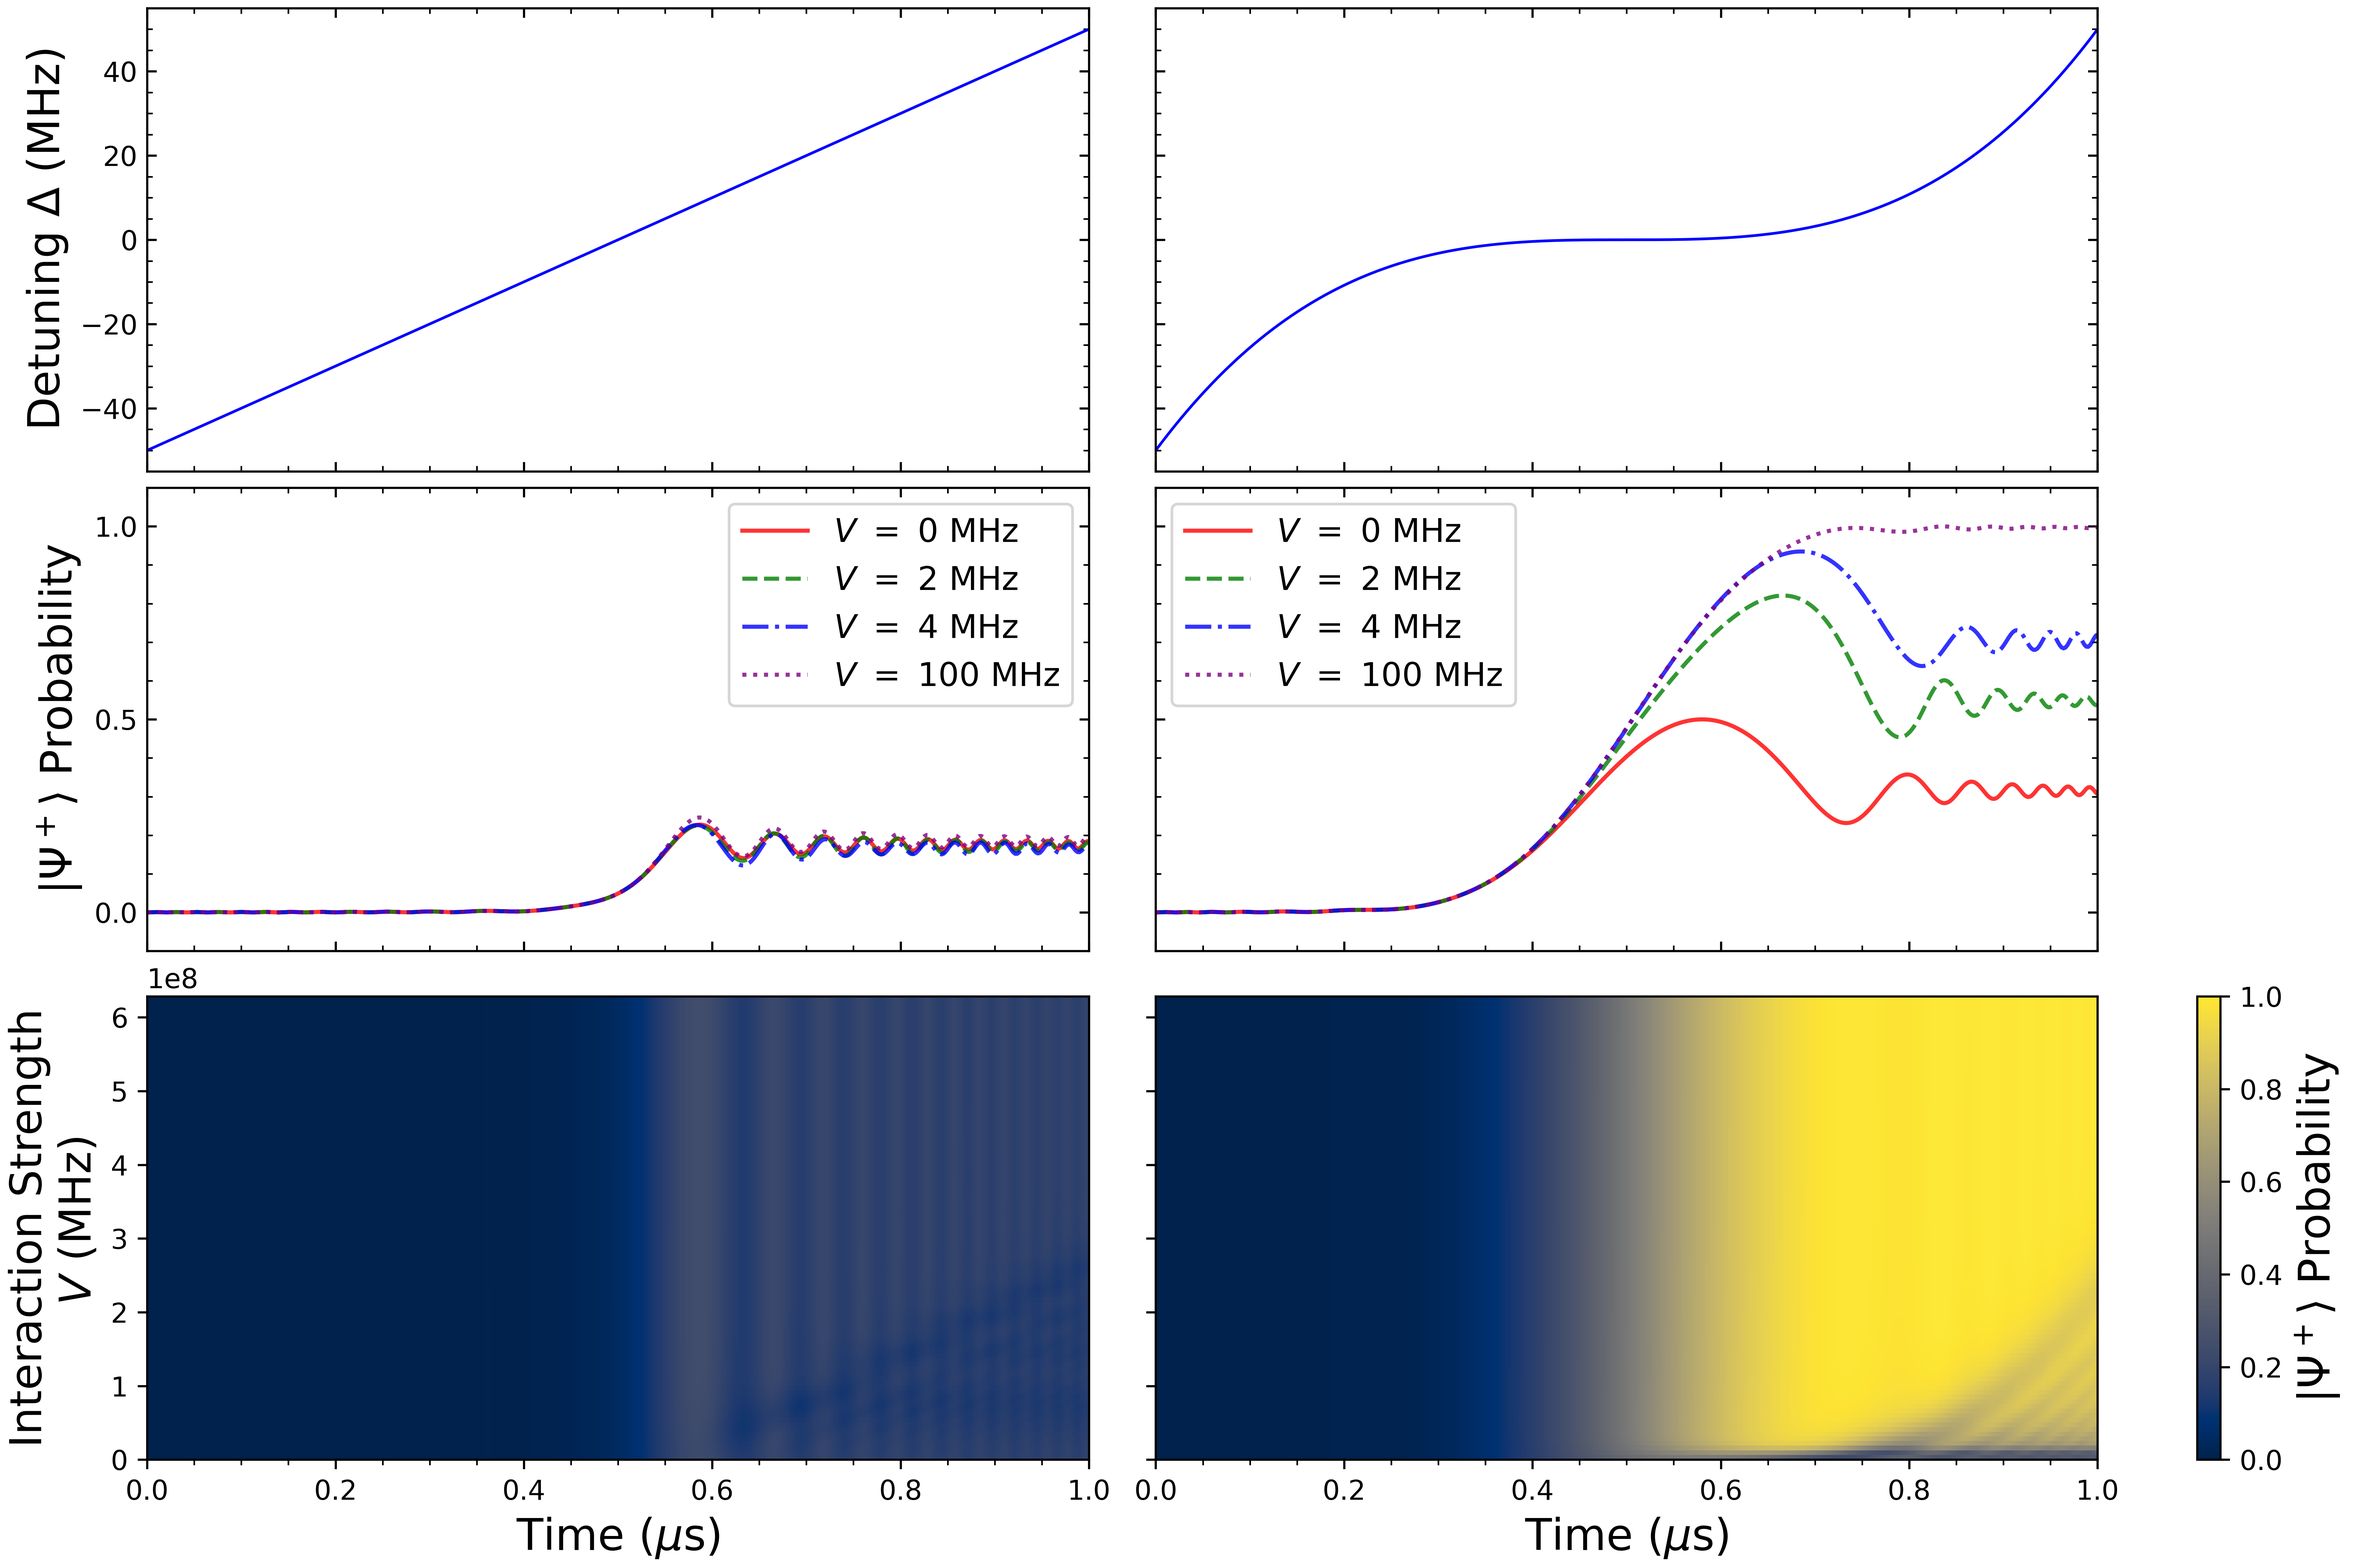
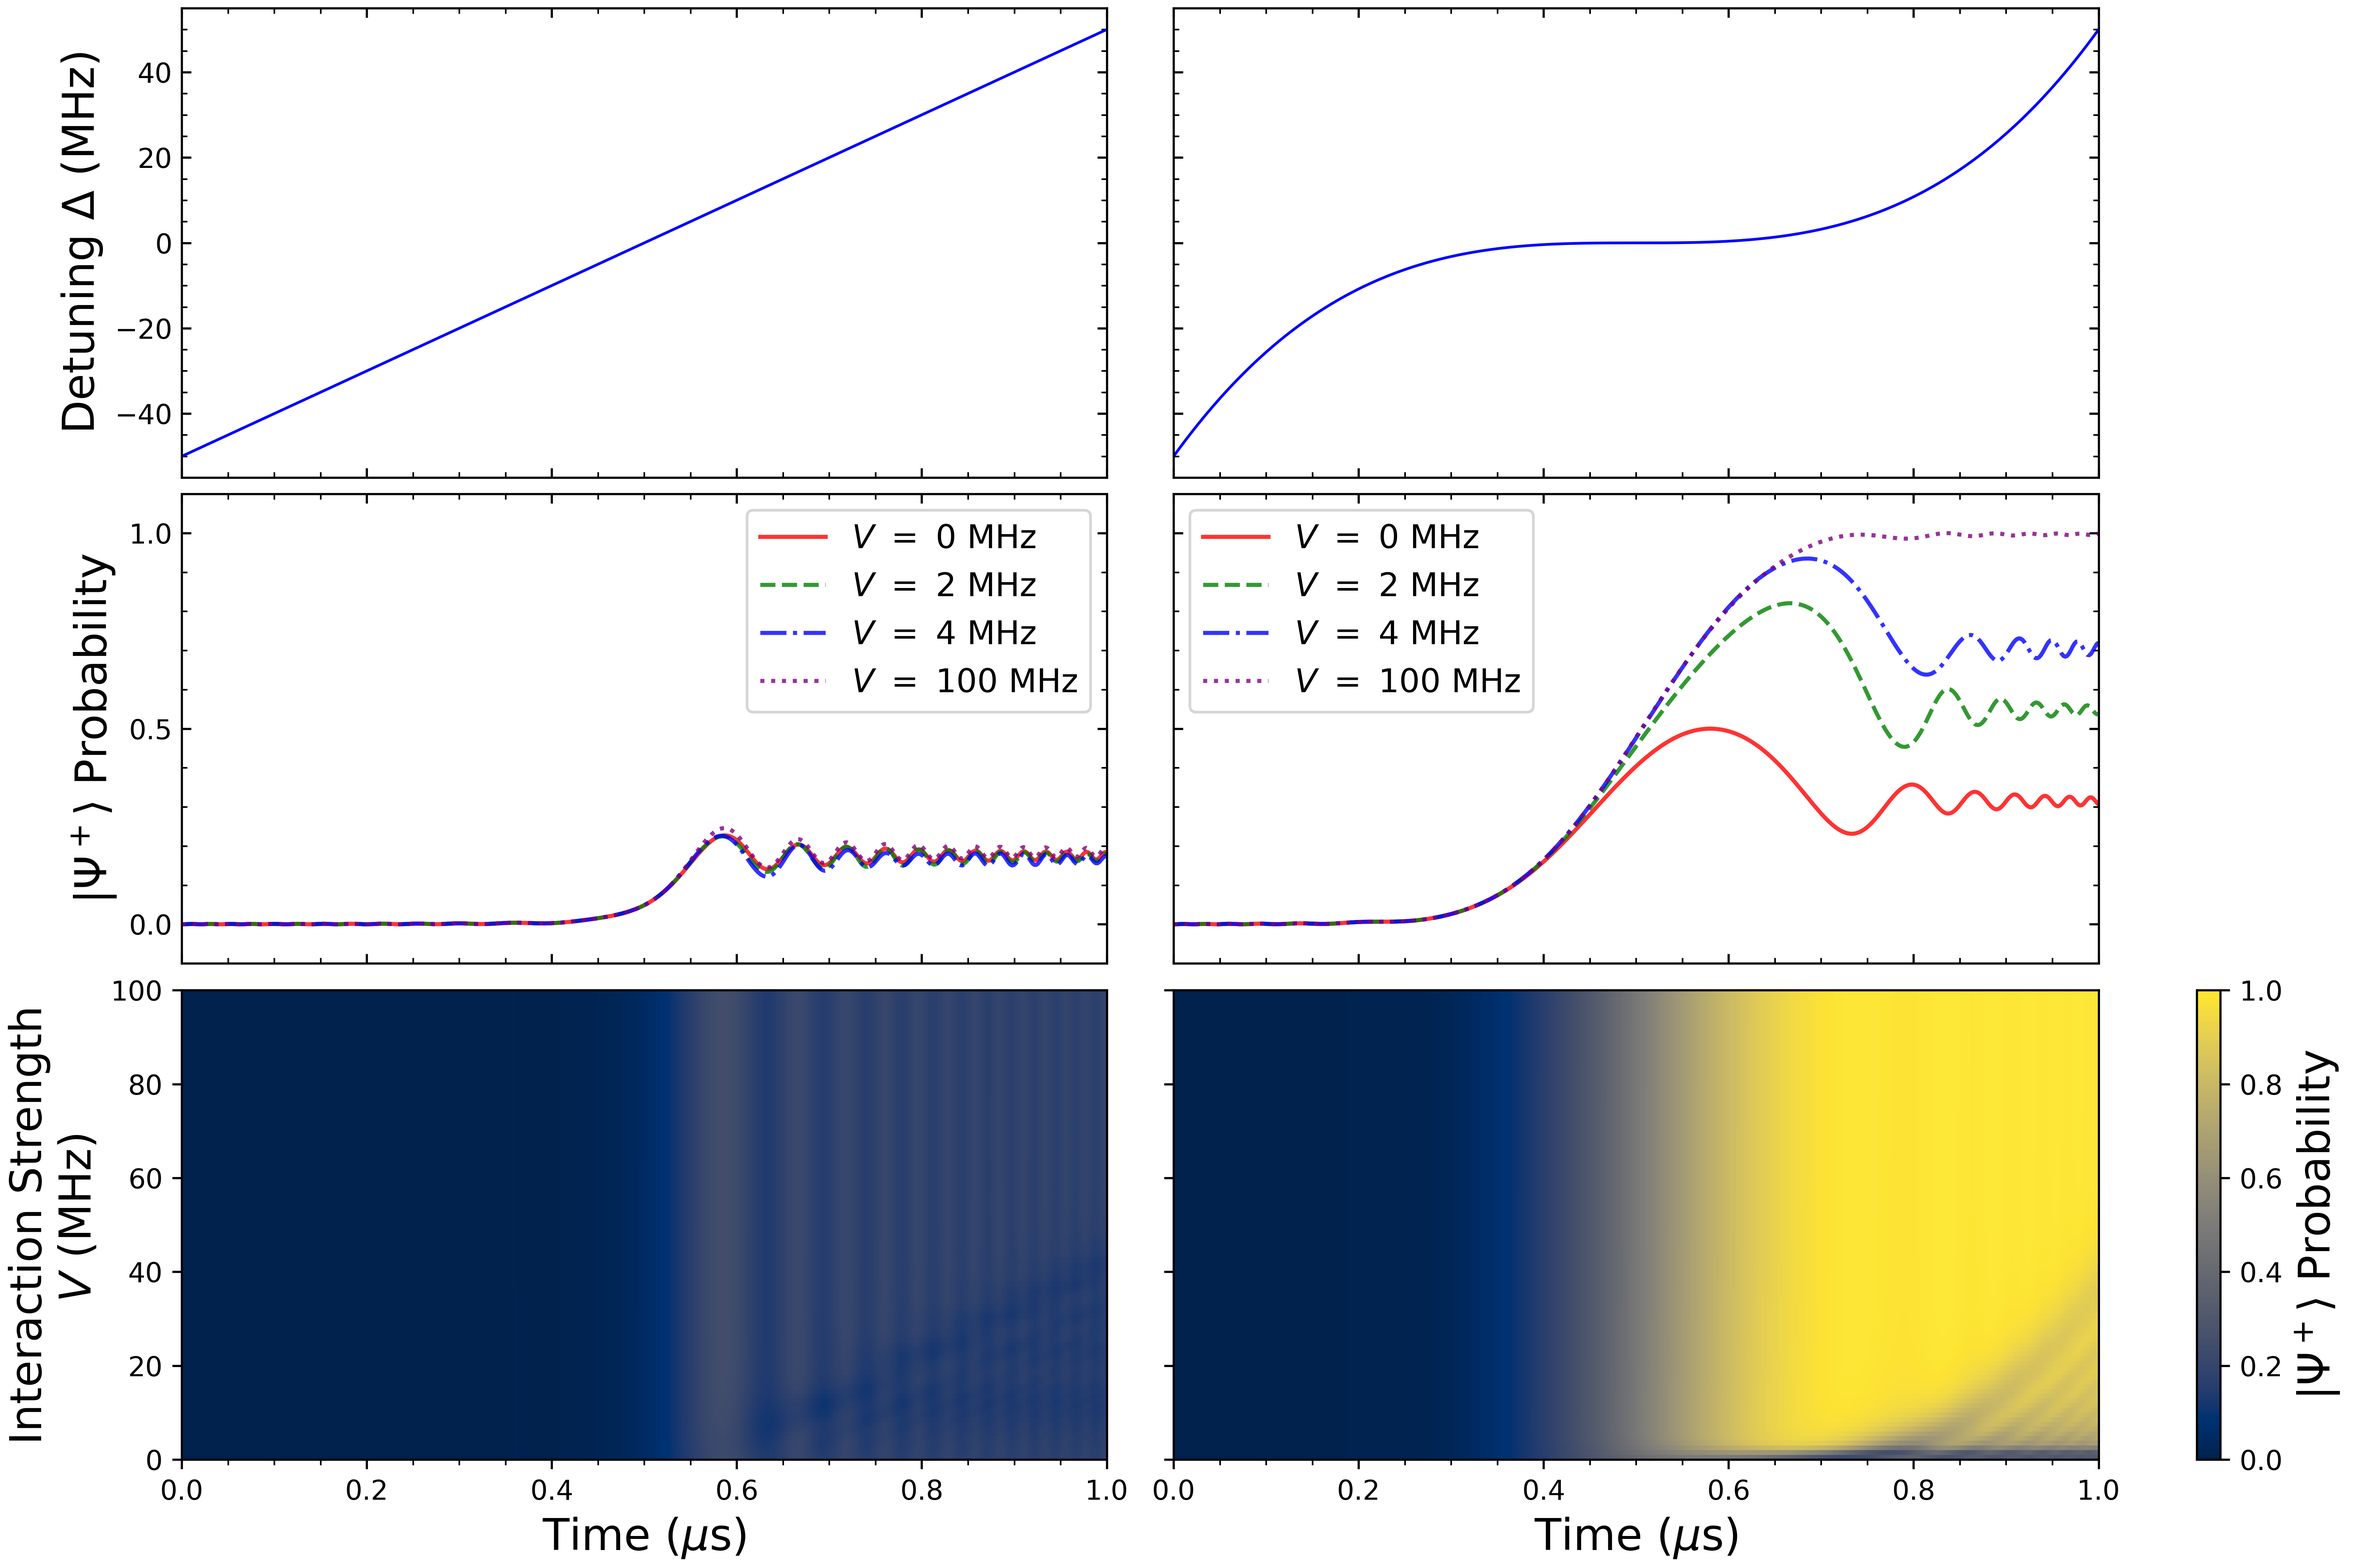
Formative complete

diff --git a/TwoAtomsInLaserFieldTimeDepH.py b/TwoAtomsInLaserFieldTimeDepH.py
@@ -75,6 +75,7 @@ print(cub_bell_plus_probs_t[cub_i, cub_j], f" --->> V={Vs[cub_i]/(2e6*np.pi)} & 
 # ************************** PLOTTING **************************
 
 
+# Set plot params
 fontsize = 16
 cmap='cividis'
 
@@ -94,7 +95,7 @@ cub_scatt_ax.label_outer()
 # Convert units for plotting
 
 times *= 1e6                        # Convert to micro seconds
-#Vs *= 1e-6 / (2*np.pi)              # Convert to MHz
+Vs *= 1e-6 / (2*np.pi)              # Convert to MHz
 cub_detuning_t /= 1e6 * 2 * np.pi   # Convert to M rad s-1
 lin_detuning_t /= 1e6 * 2 * np.pi   # Convert to M rad s-1
 
